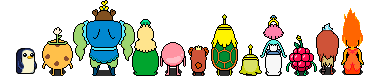
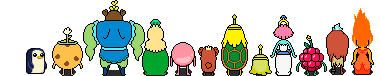
move people

diff --git a/js/game.js b/js/game.js
@@ -4,18 +4,57 @@ jokeTime.Game = function() {};
 
 var jokeText = '¿Qué le dijo una uva verde a\nuna morada?\n-Respira!';
 
+var fila1;
+var fila2;
+var fila3;
+var fila4;
+
 jokeTime.Game.prototype = {
   create: function() {
     jokeTime.game.add.sprite(0, 0, 'background');
 
-    player = jokeTime.game.add.sprite(166, 220, 'marci');
+    var graphics = jokeTime.game.add.graphics(0, 0);
+    graphics.beginFill(0xFFFFFF);
+    graphics.drawRoundedRect(20, 70, 340, 85, 6);
+    //tarima
+    graphics.beginFill(0x2d1f09);
+    graphics.drawRect(0, 308, 380, 40);
+    graphics.beginFill(0x171717);
+    graphics.drawRect(0, 348, 380, 40);
+    graphics.beginFill(0x6f5327);
+    graphics.drawRect(0, 388, 380, 200);
+    graphics.beginFill(0x3a2f1d);
+    graphics.drawRect(0, 580, 380, 60);
 
+    fila1 = jokeTime.game.add.sprite(0, 380, 'fila1');
+    fila2 = jokeTime.game.add.sprite(0, 380, 'fila2');
+    fila3 = jokeTime.game.add.sprite(0, 420, 'fila3');
+    fila4 = jokeTime.game.add.sprite(0, 460, 'fila4');
+
+
+    // Aplause!
+    tween1 = jokeTime.game.add.tween(fila1).to( { y: 385 }, 100, "Linear", true, 0, -1);
+    tween2 = jokeTime.game.add.tween(fila2).to( { y: 385 }, 120, "Linear", true, 10, -1);
+    tween3 = jokeTime.game.add.tween(fila3).to( { y: 425 }, 100, "Linear", true, 0, -1);
+    tween4 = jokeTime.game.add.tween(fila4).to( { y: 465 }, 120, "Linear", true, 10, -1 );
+    tween1.yoyo(true, 0);
+    tween2.yoyo(true, 30, 0);
+    tween3.yoyo(true, 0);
+    tween4.yoyo(true, 30, 0);
+    tween1.pause();
+    tween2.pause();
+    tween3.pause();
+    tween4.pause();
+    //
+
+    //player = jokeTime.game.add.sprite(166, 220, 'marci');
+    finn = jokeTime.game.add.sprite(166, 220, 'finn');
     tomatos = jokeTime.game.add.group();
 
     scoreText = jokeTime.game.add.text(16, 16, 'score: 0', { font:'Conv_VCR_OSD_MONO_1.001', fontSize: '64px', fill: '#fff' });
 
     tomato = jokeTime.game.add.button(249, 550, 'tomato', boo, this, 0);
-    clap = jokeTime.game.add.button(49, 550, 'aplauso', clap, this, 0);
+    clap = jokeTime.game.add.button(49, 550, 'cinnamon', clap, this, 0);
     close = jokeTime.game.add.button(10, 10, 'close', jokeTime.gofull, this, 0);
     banana = jokeTime.game.add.button(300, 10, 'banana', jokeTime.callBanana, this, 0);
     banana.scale.setTo(0.35)
@@ -36,5 +75,14 @@ function boo(){
 };
 
 function clap(){
-  alert('bravo!');
+  tween1.resume();
+  tween2.resume();
+  tween3.resume();
+  tween4.resume();
+  setTimeout(function() {
+    tween1.pause();
+    tween2.pause();
+    tween3.pause();
+    tween4.pause();
+  }, 800);
 }

diff --git a/js/preload.js b/js/preload.js
@@ -7,15 +7,23 @@ jokeTime.Preload.prototype = {
     this.scale.scaleMode = Phaser.ScaleManager.SHOW_ALL;
     this.scale.fullScreenScaleMode = Phaser.ScaleManager.SHOW_ALL;
 
-    this.load.image('background', 'assets/vista.jpg');
-    this.load.spritesheet('marci', 'assets/marci.png', 50, 121);
-    this.load.image('tomato', 'assets/tomato.png');
+    this.load.image('background', 'assets/Fondo.jpg');
+    this.load.spritesheet('marci', 'assets/Marcy_front.png', 50, 114);
+    this.load.spritesheet('finn', 'assets/finn-sprite.png', 30, 41);
+    this.load.image('tomato', 'assets/boo-button.png');
+    this.load.image('cinnamon', 'assets/Applause-button.png');
     this.load.image('banana', 'assets/banana.jpg');
     this.load.image('splash', 'assets/splash.png');
+
+    this.load.image('fila1', 'assets/Fila-1.png');
+    this.load.image('fila2', 'assets/Fila-2.png');
+    this.load.image('fila3', 'assets/Fila-3.png');
+    this.load.image('fila4', 'assets/Fila-4.png');
 
     this.load.bitmapFont('vcr', 'fonts/vcr_0.png', 'fonts/vcr.xml');
   },
   create: function() {
-    this.state.start('MainMenu');
+    //this.state.start('MainMenu');
+    this.state.start('Game');
   }
 };
